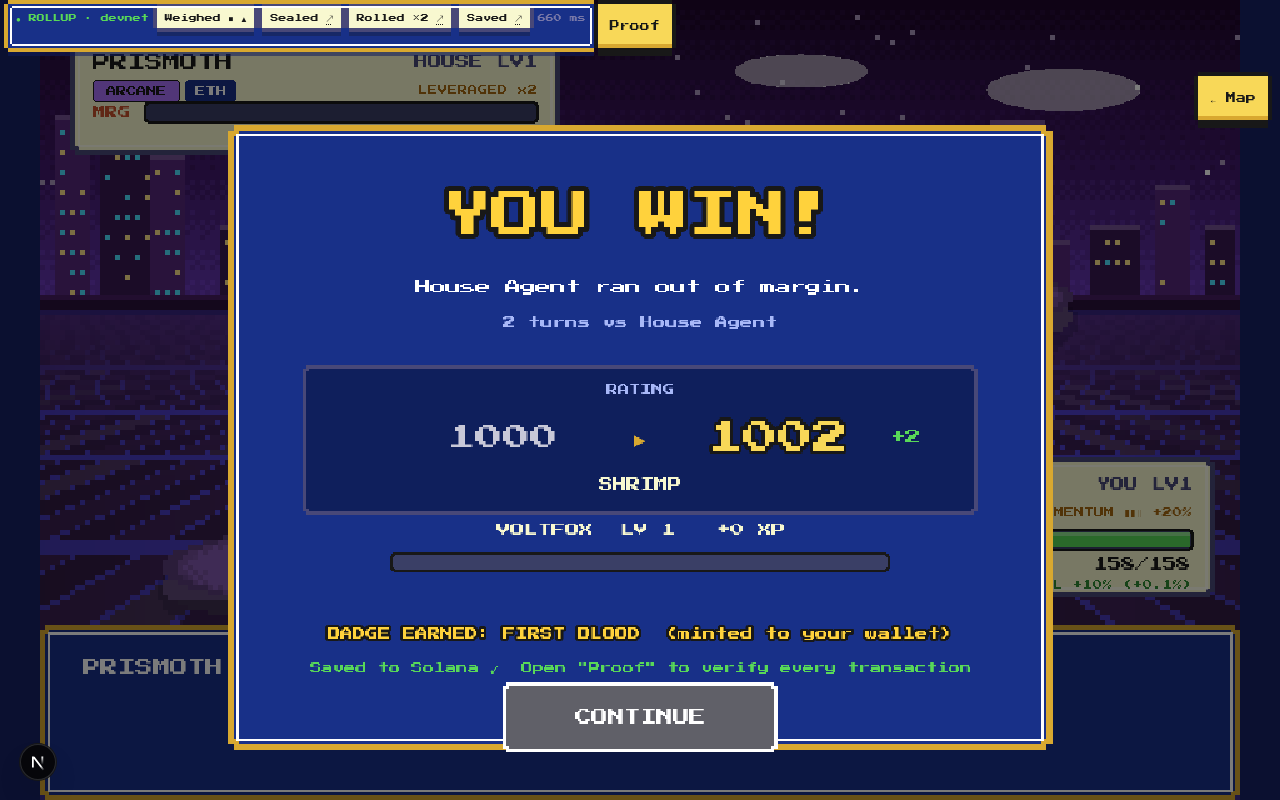
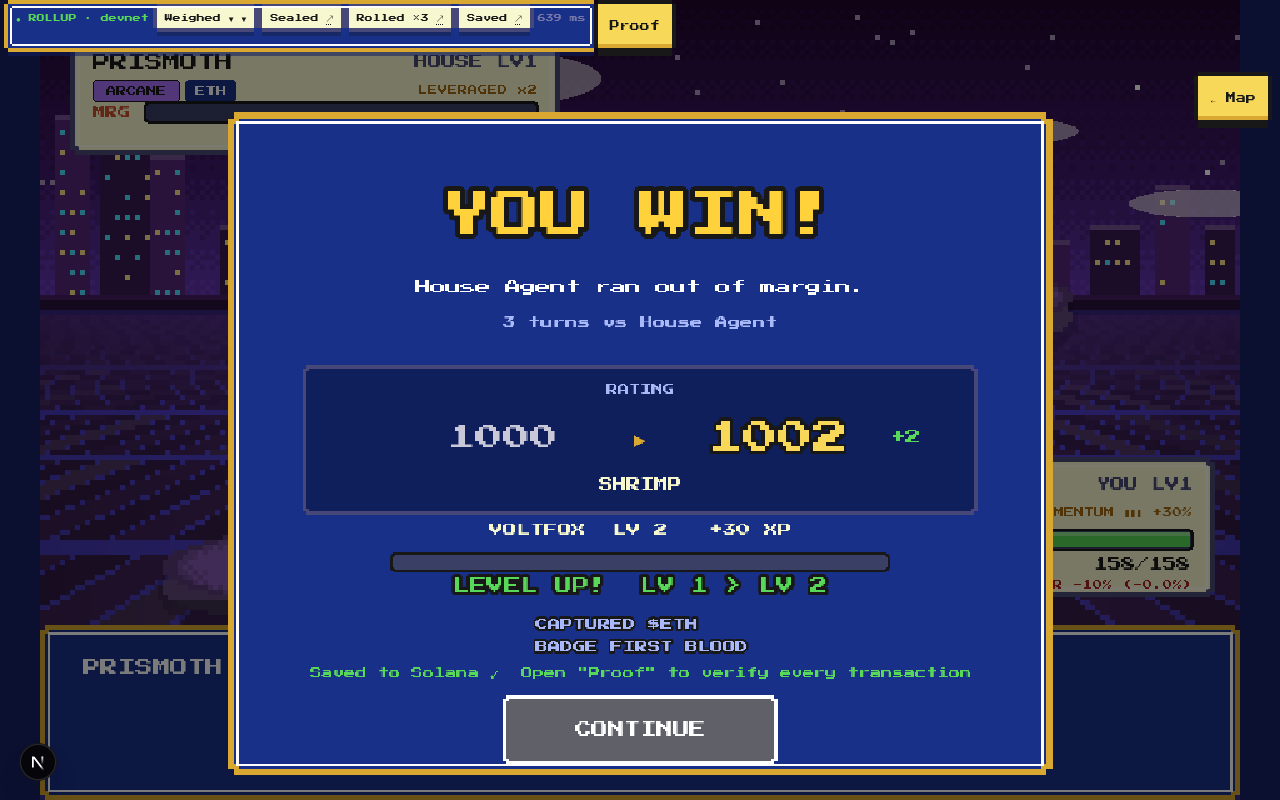
End screen: clean trophy and badge lines

diff --git a/apps/web/app/game/battle/end.ts b/apps/web/app/game/battle/end.ts
@@ -29,7 +29,7 @@ export class EndOverlay {
     const dim = scene.add.rectangle(W / 2, H / 2, W, H, 0x000000, 0.72).setDepth(100).setAlpha(0);
     scene.tweens.add({ targets: dim, alpha: 0.72, duration: 300 });
     const panel = scene.add.graphics().setDepth(101);
-    drawFrame(panel, W / 2 - 330, 100, 660, 500, { fill: C.navy, border: won ? C.gold : C.grayDark, borderW: 5, inner: C.white });
+    drawFrame(panel, W / 2 - 330, 90, 660, 530, { fill: C.navy, border: won ? C.gold : C.grayDark, borderW: 5, inner: C.white });
     const title = txt(scene, W / 2, 172, won ? 'YOU WIN!' : 'LIQUIDATED', won ? 38 : 34, won ? '#ffd23c' : '#f85858', { stroke: '#181818', strokeThickness: 8 }).setOrigin(0.5).setDepth(102);
     scene.tweens.add({ targets: title, scale: { from: 0.2, to: 1 }, duration: 320, ease: 'Back.easeOut' });
     if (won) scene.tweens.add({ targets: title, scale: 1.06, duration: 520, yoyo: true, repeat: -1, delay: 320, ease: 'Sine.easeInOut' });
@@ -91,11 +91,11 @@ export class EndOverlay {
         this.objs.push(up);
       }
     }
-    this.badge = txt(scene, W / 2, 492, '', 11, '#ffd23c', { stroke: '#181818', strokeThickness: 3 }).setOrigin(0.5).setDepth(104);
-    this.status = txt(scene, W / 2, 516, 'Practice match. Your rating is saved on this device.', 9, '#a8b8f8').setOrigin(0.5, 0).setDepth(102);
+    this.badge = txt(scene, W / 2, 492, '', 10, '#ffd23c', { stroke: '#181818', strokeThickness: 3 }).setOrigin(0.5, 0).setDepth(104);
+    this.status = txt(scene, W / 2, 534, 'Practice match. Your rating is saved on this device.', 9, '#a8b8f8').setOrigin(0.5, 0).setDepth(102);
     this.objs.push(this.badge, this.status);
 
-    this.button('CONTINUE', W / 2 - 110, 538, 220, () => o.onContinue());
+    this.button('CONTINUE', W / 2 - 110, 556, 220, () => o.onContinue());
 
     audio.bgm(won ? 'victory' : 'defeat');
     audio.sfx(won ? 'win' : 'lose');
@@ -112,7 +112,7 @@ export class EndOverlay {
     const parts: string[] = [];
     if (trophies.length) parts.push(`CAPTURED ${trophies.map((n) => n.replace(' Trophy', '')).join(', ')}`);
     if (rest.length) parts.push(`BADGE ${rest.join(', ')}`);
-    this.badge.setText(`${parts.join('  +  ').toUpperCase()}  (minted to your wallet)`);
+    this.badge.setText(`${parts.join('\n').toUpperCase()}`).setLineSpacing(4).setFontSize(10).setColor('#ffd23c');
     this.scene.tweens.add({ targets: this.badge, scale: { from: 0.6, to: 1 }, duration: 320, ease: 'Back.easeOut' });
     audio.sfx('levelup');
   }
